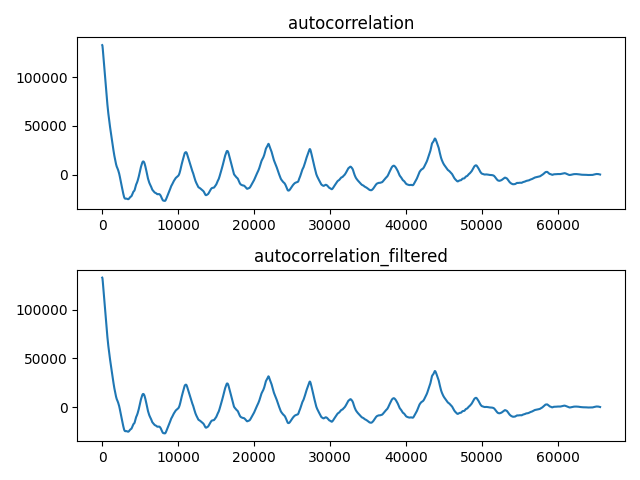
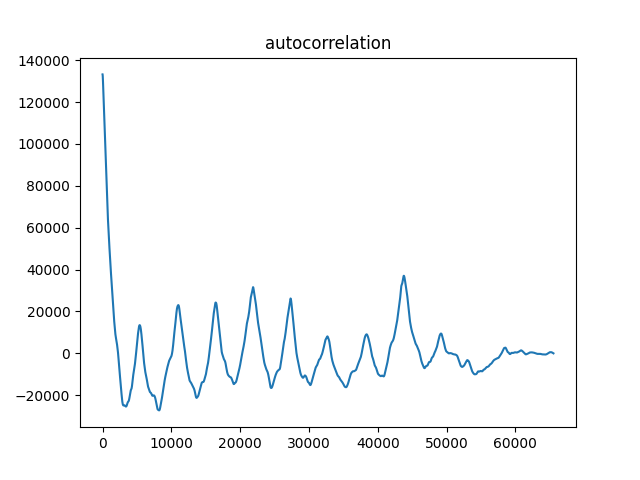
Fix 1,2 and 3

diff --git a/RoboticsFlow/DigitalSignalProcessing/1st Lab/ask4/ask4.py b/RoboticsFlow/DigitalSignalProcessing/1st Lab/ask4/ask4.py
@@ -12,11 +12,10 @@ import warnings
 files = ['../foxtrot_excerpt1.mp3', 
          '../foxtrot_excerpt2.mp3', 
          '../salsa_excerpt.mp3' ]
-
-file = files[1]
+ 
 warnings.simplefilter("ignore", UserWarning)
 figure_counter = 0 #for plots
-data, samplerate = librosa.load(file) #default 22050 samplerate freq
+data, samplerate = librosa.load(files[0]) #default 22050 samplerate freq
 
 
 
@@ -111,27 +110,27 @@ figure_counter += 1
 plt.figure(figure_counter) 
 
 ax = plt.subplot2grid( (2,1), (0,0) )
-plt.title('Details[1]')
+plt.title('Details[2]')
 plt.plot(np.arange(len(z[1])), details[1])
 
 ax = plt.subplot2grid( (2,1), (1,0) )
-plt.title('x[1]')
+plt.title('x[2]')
 plt.plot(np.arange(len(x[1])), x[1], 'b')
 plt.tight_layout() 
-plt.savefig('diagrams/x[1]_details[1].png')
+plt.savefig('diagrams/x[2]_details[2].png')
 
 figure_counter += 1
 plt.figure(figure_counter) 
 
 ax = plt.subplot2grid( (2,1), (0,0) )
-plt.title('Details[3]')
+plt.title('Details[4]')
 plt.plot(np.arange(len(z[3])), details[3])
 
 ax = plt.subplot2grid( (2,1), (1,0) )
-plt.title('x[3]')
+plt.title('x[4]')
 plt.plot(np.arange(len(x[3])), x[3], 'b') 
 plt.tight_layout() 
-plt.savefig('diagrams/x[3]_details[3].png') 
+plt.savefig('diagrams/x[4]_details[4].png') 
 
 
 #########################################################################
@@ -140,7 +139,7 @@ plt.savefig('diagrams/x[3]_details[3].png')
 #                                                                       #
 #########################################################################
   
-length = len(signal)
+length = len(signal)/2
 x_new = [np.interp(np.linspace(0, len(x_new[i]), length) , np.arange(len(x_new[i])), x_new[i]) for i in range(8)  ]
 
  
@@ -152,7 +151,10 @@ for i in range(3):
         if i == 2 and j == 2:
             continue
         ax = plt.subplot2grid((3,3), (i,j)) 
-        plt.title('x[' + str(3*i + j) +']')
+        if 3*i + j < 7:
+            plt.title('x[' + str(3*i + j+1) +']')
+        else:
+            plt.title('a[' + str(3*i + j + 1) +']')
         plt.plot(np.arange(len(x_new[3*i + j])), x_new[3*i + j])
 
 plt.tight_layout() 
@@ -208,22 +210,16 @@ autocorrelation_filtered = gaussian_filter1d(autocorrelation, 1)
 
 #########################################################################
 #                                                                       #
-#  plot both autocorrelation and autocorrelation filtered               #
+#  plot autocorrelation filtered                                        #
 #                                                                       #
 #########################################################################
 
 figure_counter += 1
 plt.figure(figure_counter)
-
-ax = plt.subplot2grid((2,1),(0,0))
-plt.title("autocorrelation")
-plt.plot(np.arange(len(autocorrelation)), autocorrelation)
-
-ax = plt.subplot2grid((2,1),(1,0))
-plt.plot(np.arange(len(autocorrelation_filtered)), autocorrelation_filtered)
-plt.title("autocorrelation_filtered")
-plt.tight_layout()  
-plt.savefig('diagrams/autocorrelation.png')
+ 
+plt.title("Autocorrelation Filtered")
+plt.plot(np.arange(len(autocorrelation_filtered)), autocorrelation_filtered) 
+plt.savefig('diagrams/autocorrelation_filtered.png')
 
 peaks = findPeaksInInterval(autocorrelation_filtered[6615:22051])
 print(peaks)
@@ -234,7 +230,7 @@ BPM = []
 
 
 for i in peaks:
-    BPM.append(60*22050/i)
+    BPM.append(int(60*22050/i))
 
 BPM_sorted = BPM.sort()
 
@@ -256,3 +252,5 @@ plt.savefig('diagrams/bpm.png')
 
 
 plt.show()
+ 
+ 
